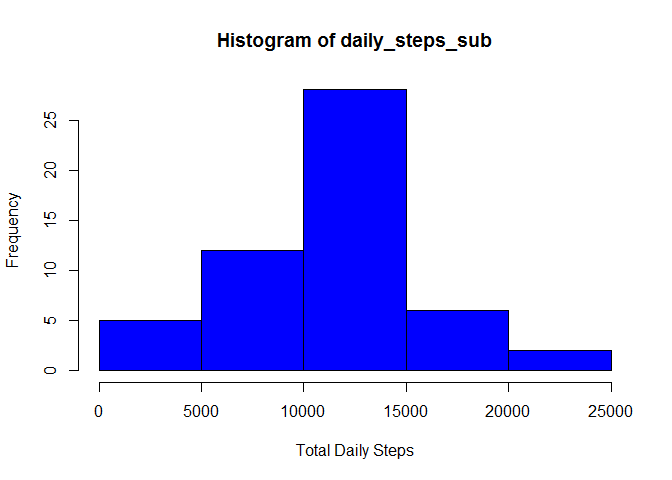
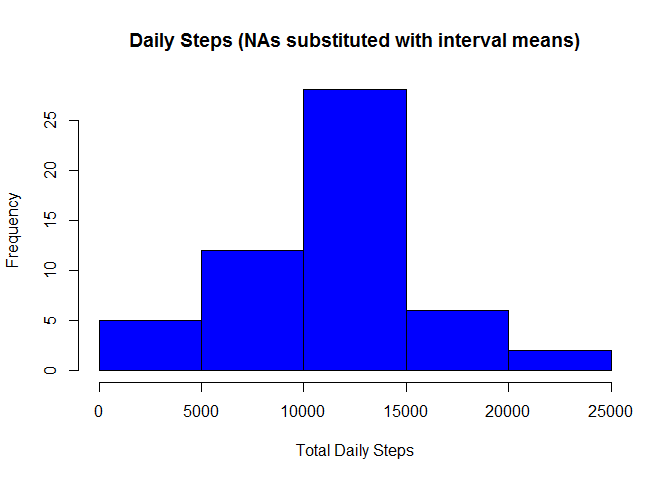
playing with qplot
getting better results than lattice, promising.

Changed region(s): [[0.1875, 0.0625, 0.875, 0.125]]

diff --git a/PA1_template.html b/PA1_template.html
@@ -76,7 +76,6 @@ activity[[&quot;date&quot;]] &lt;- as.Date(activity[[&quot;date&quot;]], &quot;%
 daily_steps &lt;- tapply(X = activity2$steps,INDEX = activity2$date, FUN = &quot;sum&quot;)
 cat(&quot;Mean daily steps (ignoring NAs): &quot;, mean(daily_steps))</code></pre>
 <pre><code>## Mean daily steps (ignoring NAs):  10766.19</code></pre>
-<p>(showing first daily totals)</p>
 <pre class="r"><code>cat(&quot;2.1 Total number of steps per day: \n&quot;, head(daily_steps, 10), &quot; ... \n&quot;, tail(daily_steps, 10), &quot; (first and last 10 records)&quot;)</code></pre>
 <pre><code>## 2.1 Total number of steps per day: 
 ##  126 11352 12116 13294 15420 11015 12811 9900 10304 17382  ... 
@@ -147,8 +146,8 @@ for(i in 1:nrow(activity_sub)) {
 <h3>4.4 Histogram of daily steps, with new dataset, mean and median</h3>
 <pre class="r"><code>#re calculate daily steps
 daily_steps_sub &lt;- tapply(X = activity2$steps,INDEX = activity2$date, FUN = &quot;sum&quot;)
-hist(daily_steps_sub, xlab = &quot;Total Daily Steps&quot;, col = &quot;blue&quot;)</code></pre>
[1 lines of base64/hex data omitted]
+hist(daily_steps_sub, xlab = &quot;Total Daily Steps&quot;, col = &quot;blue&quot;, main = &quot;Daily Steps (NAs substituted with interval means)&quot;)</code></pre>
[1 lines of base64/hex data omitted]
 <pre class="r"><code>mean_daily_steps_sub &lt;- mean(daily_steps_sub)
 median_daily_steps_sub &lt;- median(daily_steps_sub)
 cat(&quot;New mean: &quot;, mean_daily_steps_sub, &quot; Previous mean: &quot;, mean_daily_steps, &quot;\n&quot; )</code></pre>
@@ -166,17 +165,8 @@ cat(&quot;New mean: &quot;, mean_daily_steps_sub, &quot; Previous mean: &quot;, 
 </div>
 <div id="are-there-differences-in-activity-patterns-between-weekdays-and-weekends" class="section level2">
 <h2>5. Are there differences in activity patterns between weekdays and weekends?</h2>
-<pre class="r"><code>require(dplyr, quietly = TRUE)</code></pre>
-<pre><code>## 
-## Attaching package: 'dplyr'
-## 
-## The following object is masked from 'package:stats':
-## 
-##     filter
-## 
-## The following objects are masked from 'package:base':
-## 
-##     intersect, setdiff, setequal, union</code></pre>
+<pre class="r"><code>require(dplyr, warn.conflicts = FALSE)</code></pre>
+<pre><code>## Loading required package: dplyr</code></pre>
 <pre class="r"><code>activity_sub &lt;- mutate(activity_sub, day_type = &quot;Weekday&quot;)
 
 for(i in 1:nrow(activity_sub)){
@@ -187,13 +177,14 @@ for(i in 1:nrow(activity_sub)){
     
 }
 
-table(activity_sub$day_type)</code></pre>
-<pre><code>## 
-## Weekday Weekend 
-##   12960    4608</code></pre>
-<pre class="r"><code>require(lattice, quietly = TRUE)
+require(lattice, quietly = TRUE)
 xyplot(log(steps) ~ interval | day_type, data = activity_sub, layout = c(1,2), type = &quot;l&quot;)</code></pre>
[2 lines of base64/hex data omitted]
+<pre class="r"><code>require(ggplot2, warn.conflicts = FALSE)</code></pre>
+<pre><code>## Loading required package: ggplot2</code></pre>
+<pre class="r"><code>q &lt;- qplot(interval, steps, data = activity_sub, facets = day_type~., geom = &quot;line&quot;)
+q</code></pre>
[1 lines of base64/hex data omitted]
 </div>
 
 

diff --git a/PA1_template.md b/PA1_template.md
@@ -21,7 +21,6 @@ cat("Mean daily steps (ignoring NAs): ", mean(daily_steps))
 ## Mean daily steps (ignoring NAs):  10766.19
 ```
 
-(showing first  daily totals)
 
 ```r
 cat("2.1 Total number of steps per day: \n", head(daily_steps, 10), " ... \n", tail(daily_steps, 10), " (first and last 10 records)")
@@ -129,7 +128,7 @@ for(i in 1:nrow(activity_sub)) {
 ```r
 #re calculate daily steps
 daily_steps_sub <- tapply(X = activity2$steps,INDEX = activity2$date, FUN = "sum")
-hist(daily_steps_sub, xlab = "Total Daily Steps", col = "blue")
+hist(daily_steps_sub, xlab = "Total Daily Steps", col = "blue", main = "Daily Steps (NAs substituted with interval means)")
 ```
 
 ![](PA1_template_files/figure-html/unnamed-chunk-8-1.png) 
@@ -160,20 +159,11 @@ cat("New median: ", median_daily_steps_sub, " Previous mean: ", median_daily_ste
 ## 5. Are there differences in activity patterns between weekdays and weekends?
 
 ```r
-require(dplyr, quietly = TRUE)
+require(dplyr, warn.conflicts = FALSE)
 ```
 
 ```
-## 
-## Attaching package: 'dplyr'
-## 
-## The following object is masked from 'package:stats':
-## 
-##     filter
-## 
-## The following objects are masked from 'package:base':
-## 
-##     intersect, setdiff, setequal, union
+## Loading required package: dplyr
 ```
 
 ```r
@@ -187,18 +177,25 @@ for(i in 1:nrow(activity_sub)){
     
 }
 
-table(activity_sub$day_type)
-```
-
-```
-## 
-## Weekday Weekend 
-##   12960    4608
-```
-
-```r
 require(lattice, quietly = TRUE)
 xyplot(log(steps) ~ interval | day_type, data = activity_sub, layout = c(1,2), type = "l")
 ```
 
 ![](PA1_template_files/figure-html/unnamed-chunk-9-1.png) 
+# Using ggplot:
+
+```r
+require(ggplot2, warn.conflicts = FALSE)
+```
+
+```
+## Loading required package: ggplot2
+```
+
+```r
+q <- qplot(interval, steps, data = activity_sub, facets = day_type~., geom = "line")
+q
+```
+
+![](PA1_template_files/figure-html/unnamed-chunk-10-1.png) 
+
